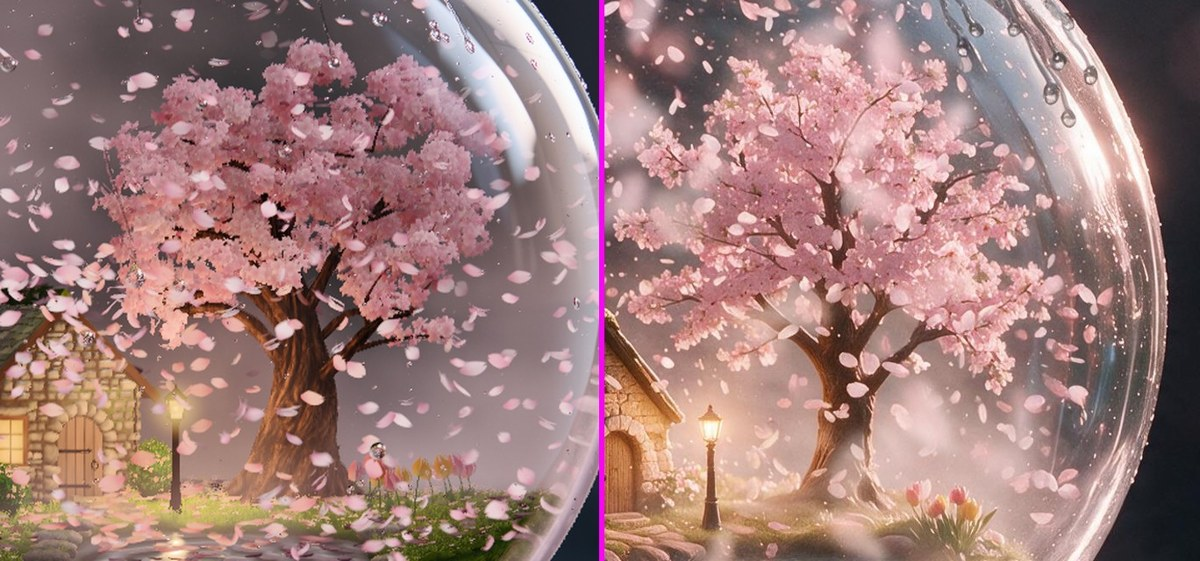
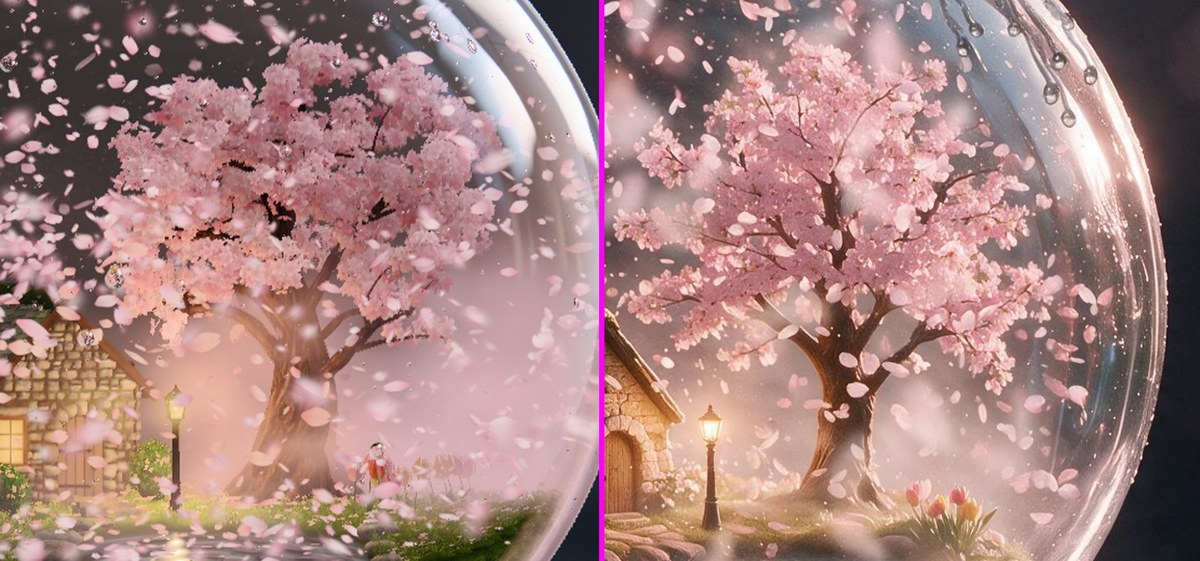
Looks at 823cffd, REPORT.md and HANDOVER.md

Changed region(s): [[0.0, 0.0, 0.5242, 1.0], [0.4625, 0.0909, 0.4933, 0.1515], [0.4317, 0.0, 0.4625, 0.0606]]

diff --git a/REPORT.md b/REPORT.md
@@ -1,0 +1,90 @@
+# spring_mini2: report (Phase 4, spring miniature, second set)
+
+Branch `agent/p4-spring_mini2`, last commit `823cffd`. Looks on `agent/p4-spring_mini2-looks`.
+Files: `assets-src/village-spring/**`, `assets-src/tree-spring/**`, `src/seasons/spring/miniature.ts`, `src/seasons/spring/mini/**`. Nothing outside them was committed.
+
+## Make targets, in order
+1. `npm run make -- village-spring` (10 to 25 s)
+2. `npm run make -- tree-spring` (1 s)
+3. `npm run texpack` (about 1 min)
+4. `npm run build` (2 to 4 s)
+
+Both makes need the shared `village` and `trunk` makes to have run (they are in main's `assets-full`). The season's triangle gate also needs `npm run make -- base-spring` and `slab-spring` (bases2's): see G15 below.
+
+## Stand-ins and fallbacks
+None. `standIns: []`. No generated picture is used; every asset of mine is made by code from seeded streams.
+
+## What I did to the Round 8 issues
+| Issue | State | What changed |
+|---|---|---|
+| R3-1 #1, R3-2 #7, R1 #6, R2 "flat repeated clusters, blobby": crown | better, not done | The flat cards are gone. The crown is 4,103 cupped five petal flowers in 654 clusters on 165 curved sprays, gathered in 36 small boughs with sky between them; normals rounded bough by bough, underside of each bough shaded, an inner dark core in each cluster; taller dome near the approved silhouette; paler, brighter tones. Bark has its own lit, ridged material (no black tubes); twigs are brown wood. |
+| R3-1 #2: tulips striped, pond grey putty, chimney pot black | fixed (tulips, pond, pot) | Tulip normals smoothed; pond is dark water with concentric rings, the lamp's glint and the far bank in its mirror; the pot is lit terracotta. |
+| R3-1 #2, R3-2 #8, R1 #4: wall flat, roof one plane, chimney, fence shape | not mine to reshape | Wall, roof, chimney, fence and windows are shapes of the shared `village-model.glb` (read only for me). I changed only their cover: stone and slate tone, moss on ridge and eaves, fence tint `[0.96, 0.8, 0.62]`. Relief at the gable and shingle edges need the shared model. |
+| R3-1 #7, R3-2 #6: green band with a grid under the lawn | grid fixed, band softer, still a band | The tiled turf on the bank is replaced by procedural moss cushions (no repeat, no grid). Lip lit, falloff to dark soil below, 110 rim mounds. In the rest hero it still reads as a green wedge where the approved shows lit moss mounds in mist. |
+| R3-1 #14 (my half), R1 #4: panes flat, no glow or spill | partly | Panes brighter with room and curtain tone, small halo on lamp and panes. No visible pool of lamp light on the grass; a wide halo was tried by `spring_mini` and read as a blob. |
+| R1 #5: pond rings, lamp reflection, stepping stones | fixed, stones partly | Rings and the lamp's reflection are there. Path stones carry a paler tint mask but are still plain lumps (shared shape). |
+| R1 #8 (my half): lit pond edge at the rim | fixed | Bank lip lit, far bank dark in the pond's mirror. |
+| G15 | fixed for my share | See below. |
+| M1 spring-interior | passes | See measures below. |
+
+## Still wrong, worst first
+1. Crown: still fuller and more even than the approved's lace of blossom on bare branches; few bare twigs reach past the blossom; no warm light from behind inside it (the light is `spring_air2`'s rig).
+2. Bank: a green wedge under the lawn in the rest hero and interior. The approved has pale, misted moss mounds there. Needs low mist at rest (`veil.ts`, `spring_air2`) more than more paint.
+3. Storm (landed hero): the crown is a dim pink ghost where the approved is a pale glowing cloud; there is no storm term in the blossom material (`tree.update` is empty).
+4. Trunk: thicker and shorter below the fork than the approved (shared `src/miniature/trunk.ts`).
+5. Cottage: smaller and dimmer than the approved; wall and roof without relief (shared model, others' light).
+6. Lamp: no pool of light on the grass, halo small.
+7. Petals crowd the pond and roof and some stand on edge on the lawn (particle engine, `kinds2`; I sent the resting rules).
+8. Fence and path stones are blocky (shared shapes).
+
+## Where I did not follow a critic
+- The critic asked for less blossom mass ("one cluster"). The approved pair shows a full pink crown, so the crown stays full; it is broken into boughs instead of thinned out.
+- The pond stays dark with a warm lamp streak as in the approved rest image; it was not made blue or clear.
+
+## G15 (triangles)
+My files' index lists, high / medium / low: 277,099 / 120,986 / 83,506 = 0.783 / 0.384 / 0.390 of the gate build fe1072c (353,922 / 314,740 / 214,000; rule 0.80 / 0.58 / 0.71).
+
+| mesh | high | medium | low |
+|---|---|---|---|
+| blossom | 74,625 | 33,595 | 23,340 |
+| twigs | 11,550 | 11,550 | 5,680 |
+| turf | 85,691 | 30,180 | 15,117 |
+| growth | 102,833 | 45,590 | 39,330 |
+| water | 2,400 | 71 | 39 |
+
+Beyond the lists: the lawn (`turf`) casts no shadow (no visible change, 85,691 fewer in the shadow pass); `growth` is not drawn in the planar mirror (A/B hero still: 0 differing pixels); below `high` the blossom draws its shadow share in the mirror and the twigs are skipped in shadow and mirror.
+
+Season drawn at rest, hero, draft (`node out/work/bin/tris.mjs spring`), on a3e46f9 (same triangle lists as the tip):
+- with `base-spring.glb` as committed on main 832eb32: 1,617,387 / 1,164,429 / 485,953 (medium fails)
+- after `npm run make -- base-spring` and `slab-spring`: 1,510,059 / 882,961 / 400,654 of 1,800,000 / 1,100,000 / 600,000 (all pass)
+
+## Tests and measures
+At d3983e2 (the last commit that changed what is drawn; 823cffd adds recipes and two merges of main):
+- `npx tsc --noEmit`: clean (no output). `npx vitest run`: `Test Files 32 passed | 1 skipped (33)`, `Tests 432 passed | 4 skipped (436)`. Both run again at 823cffd with the same result.
+- `npm run determinism`: last line `determinism: pass · 3 pictures, 4 page loads, preview, draft, 344 s`.
+- `npm run measure -- --unit spring --only M1,M2,M3,M6 --tier draft`: `measure spring: complete · 19 of 19 lines, 4 red · draft · 432 s`.
+  - pass M1 spring-interior: 0 invalid values; "the miniature, 550358 pixels in the ids view, stays clear of the edge of the frame". By hand before that: first miniature row 40 of 1080 with a slightly larger crown.
+  - pass M3 spring-rest: 0.8128 against 0.75 (miniature 0.813, base 1.334). By my earlier runs the miniature was 0.557 when I started and 0.920 at 150bc12; I take the drop since then to come from the paler, finer crown and the haze now in front of it, but I did not isolate it.
+  - pass M6 on all five stills (rest 0, shake 23 of 102,000 particles inside a solid = 0.000225 against 0.002).
+  - pass M2 spring-interior (0), spring-base (0.006), spring-surface (0.0255).
+  - FAIL M2 spring-rest 0.0503, spring-shake 0.0549, spring-settled 0.0503 against 0.03. Not the miniature: in the measure's own `spring-rest-hd-draft-texels.png` and `-ids.png` all 14,548 soft pixels carry the ids colour (96, 251, 121), lie in rows 921 to 1018 and span the whole width; by its place in the frame that is the surface the globe stands on. The miniature (249, 190, 16) has 84,704 pixels in the sharp zone and 0 soft ones.
+  - FAIL M1 spring-base: 6 invalid values. Not the miniature: the count stayed 6 with my miniature group and my lights hidden (told `/root` at 03:31).
+- Stand-ins check: none in my files (`standIn: false` on every material of the part).
+- Not run by me: `npm run fit` (draws a different picture), the film renders, any tier above draft.
+
+## Looks
+40 of 40 used (38 pictures looked at and 2 `--diag ids` runs for M1; the tally before 04:15 UTC is my running count of about 29). All at `--tier draft --format hd` with the approved crop beside ours where a pair was made. One slip: looks commit 78fc049 was staged with `git add -A .` inside the looks worktree; it held only the 4 pictures and `captions.txt`.
+
+## Size
+`public/assets/spring/`: `tree-blossom.glb` 2.39 MB, `village-spring.glb` 4.65 MB, `village-turf.lin.tile.webp` 0.65 MB (+ `.first.webp` 0.25 MB), `village-water.lin.tile.webp` 0.12 MB: 8.06 MB (7.69 MiB) of 9.5 MiB.
+
+## ASSETS.md rows (names unchanged; for `/root`)
+| file | made by | command | seed |
+|---|---|---|---|
+| `spring/village-spring.glb` | `assets-src/village-spring/build.mjs` (+ `levels.mjs`, `meshoptimizer`) | `npm run make -- village-spring` | `rng(5171)`, mounds `rng(9133)` |
+| `spring/village-turf.lin.tile.png` | same run | same | seeded noise |
+| `spring/village-water.lin.tile.png` | same run | same | seeded noise |
+| `spring/tree-blossom.glb` | `assets-src/tree-spring/build.mjs` (+ `../village-spring/levels.mjs`) | `npm run make -- tree-spring` | stream `tree-spring` |
+
+## PARTS.json line (for `/root`)
+`{ "name": "miniature-spring", "owner": "spring_mini2", "branch": "agent/p4-spring_mini2", "commit": "823cffd", "files": ["assets-src/village-spring/**", "assets-src/tree-spring/**", "src/seasons/spring/miniature.ts", "src/seasons/spring/mini/**"], "standIns": [] }`

diff --git a/HANDOVER.md b/HANDOVER.md
@@ -1,0 +1,55 @@
+# spring_mini2: handover (spring miniature)
+
+Branch `agent/p4-spring_mini2` at `823cffd`; looks on `agent/p4-spring_mini2-looks`. Everything below is in the files of this part.
+
+## Files
+- `src/seasons/spring/miniature.ts`: builds the group, calls `village.update` and `tree.update`.
+- `src/seasons/spring/mini/palette.ts`: every colour of the part (`tones`): lamp, room, panes, halo, moss, water, bark, blossom, twig.
+- `src/seasons/spring/mini/village.ts`: cover shaders over the shared village (stone, slate, moss, fence tint, path stone mask), the turf with its four kinds (`vSurf.x`: 0 lawn, 1 roof moss, 2 bank skirt with depth in `vSurf.y`, 3 boulders), growth, the pond, halos, small lights. `update` sets the pond clock and the light gain from `moment.time / moment.period`.
+- `src/seasons/spring/mini/tree.ts`: blossom, twig and bark materials; level lists; lighter draw ranges in the shadow and mirror passes. `update` is empty.
+- `assets-src/village-spring/build.mjs`: `turf`, `growth`, `water` meshes and the two tiles. `assets-src/village-spring/levels.mjs`: `addLists(file, meshName, { medium, low })` writes extra index accessors and `extras.levels` so texpack keeps them (texpack skips primitives that already carry `extras.levels`).
+- `assets-src/tree-spring/build.mjs`: the crown (`blossom`, `twigs`) and the collider balls in the blossom's extras.
+- `assets-src/*/RECIPE.md`: how each asset is made.
+
+## Make
+`npm run make -- village-spring`, `npm run make -- tree-spring`, `npm run texpack`, `npm run build`. After a merge of main: `git checkout -- assets-full public/assets` first, then the four again. Never commit `assets-full/` or `public/assets/`.
+
+## Constants that carry the look
+Tree (`assets-src/tree-spring/build.mjs`):
+- `CROWN { centre [1.2, 28.4, 1], r [19.5, 14.8, 14.5], floor 14.2, reach 13 }` (mm, trunk space). Box of the built crown x -18.6..19.3, y 14.4..43.7, z -13.3..15.1; farthest point 35.9 mm from the globe's centre (inner glass 57). The make prints both.
+- `LOBES { count 36, spacing 6.2, tall 1.3, shell [0.3, 0.96], r [3.6, 2.5, 3.6], size [0.7, 1.3], sprays 4.6, gap 2.4 }`: the boughs. Fewer and larger lobes read as blobs (23 lobes of r 4.9 did).
+- `CLUSTER { step 1.75, flowers [5, 7.2], flower [0.58, 0.92], extra 0.14, core 0.36 }`, `LOBE_LOOK { round 0.7, under 0.7 }`, `SHADE [0.75, 0.68, 0.7]`.
+- `palette.ts`: `blossom [1.34, 1.25, 1.4]` (measured against the approved crown: ours was 18% darker at `[1.15, 1.02, 1.17]`), `bark [1.3, 1.1, 1.02]`.
+- M1 interior: the crown's top sets it. With the box top at y 44.3 the miniature's first row was 40 of 1080 (0 edge pixels); at 45.7 it was row 12. Do not raise the crown further without that check: `npm run still -- --season spring --state rest --camera interior --tier draft --format hd --force --diag ids`, miniature colour (249, 190, 16).
+
+Village (`src/seasons/spring/mini/village.ts`, `assets-src/village-spring/build.mjs`):
+- Bank: `BANK { ..., deep 0.16, lip 1.05 }`, tone falloff `smoothstep(0.04, 0.8, vSurf.y)`, skirt fill falloff `1 - 0.85 * smoothstep(0.06, 0.85, vSurf.y)`, `BANK_TINT [0.62, 0.57, 0.6]`, crest `(0.36 + 1.2 * crest)`, `MOUNDS { count 110, sizeMm [1.2, 3.3], seed 9133 }`.
+- Pond: `waterDeep [0.04, 0.055, 0.055]`, `WATER_LOOK` with `room 0.45, far [0.05, 0.06, 0.035], farFrom 0.1, farTo 0.42`, ring amplitudes `1 - 0.36 * i`.
+- Lights: panes `room x1.6`, `curtain x2`, `HALO_KIND.lamp.rest 0.5`, `pane.rest 0.28`.
+- `FENCE_TINT [0.96, 0.8, 0.62]`, `PATH { tint [1.75, 1.58, 1.3], reachMm [1.5, 2.1], tallMm 1 }`.
+- `BLADES.tufts 5450`, `LEVEL { medium 0.3, low 0.25 }` (growth), `TURF_LEVEL { medium 0.1, low 0.22 }` (lawn, meshopt error).
+
+## Triangles
+Lists high / medium / low: blossom 74,625 / 33,595 / 23,340; twigs 11,550 / 11,550 / 5,680; turf 85,691 / 30,180 / 15,117; growth 102,833 / 45,590 / 39,330; water 2,400 / 71 / 39. Sum 277,099 / 120,986 / 83,506.
+Passes: the mirror pass is recognised by `mesh.matrixWorld.determinant() < 0` in `onBeforeRender`, the shadow pass by `onBeforeShadow`. Growth is skipped in the mirror at every level; turf casts no shadow; blossom and twigs are lighter in mirror and shadow below `high`.
+Count with `node out/work/bin/tris.mjs spring` after `npm run build` (the script is from `/root`, untracked).
+
+## Dead ends (do not repeat)
+- Geometric lumps on the bank skirt take no key light; the turf tile on the bank reads as a grid.
+- Saturated blossom tones go crimson in shade; keep the tones pale and lift `palette.blossom` instead.
+- Lamp halo `rest 0.5, hot 0.4` is a blob.
+- `npm run fit` draws a different picture from `npm run still`.
+- 23 large boughs read as cauliflower; a flat wide crown (r `[21, 13.4, 15]`) reads as an umbrella.
+
+## What I would do next, in order
+1. Crown: let more bare twig show (longer `CROWN.reach`, fewer clusters near spray tips), and ask `spring_air2` for a warm light from behind the crown.
+2. Storm: a term in the blossom material that lifts it toward a pale glow while the storm is up (pure function of `moment.sinceLanding`), then look at `landed` hero beside `spring-shake`.
+3. Bank at rest: low mist over the rim (`veil.ts`, `spring_air2`).
+4. Lamp: a soft pool on the lawn through the turf shader (distance to the lamp foot), not a larger halo.
+5. Shared shapes (gable relief, shingle edges, fence rails, path stones, trunk girth) need `/root` or the owner of `assets-src/village` and `src/miniature/trunk.ts`.
+
+## Messages sent to other owners
+- `kinds2`: resting petal rules for roof, fence, stones and pond.
+- `spring_air2`: pond petals, crown box, bank crescent in the landed still (they fixed the last in 1c19715).
+- `bases2`: base rock and growth needed medium lists (done in e0ee86f).
+- `/root`: M1 spring-base invalid values are not from the miniature (still 6 with my group and lights hidden); main's committed `base-spring.glb` is older than bases2's source.
